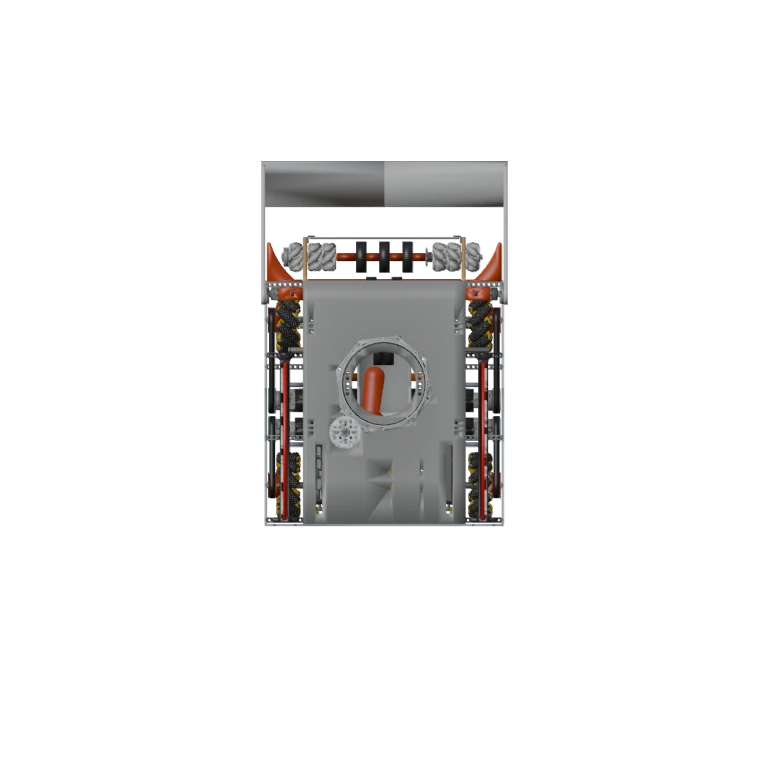
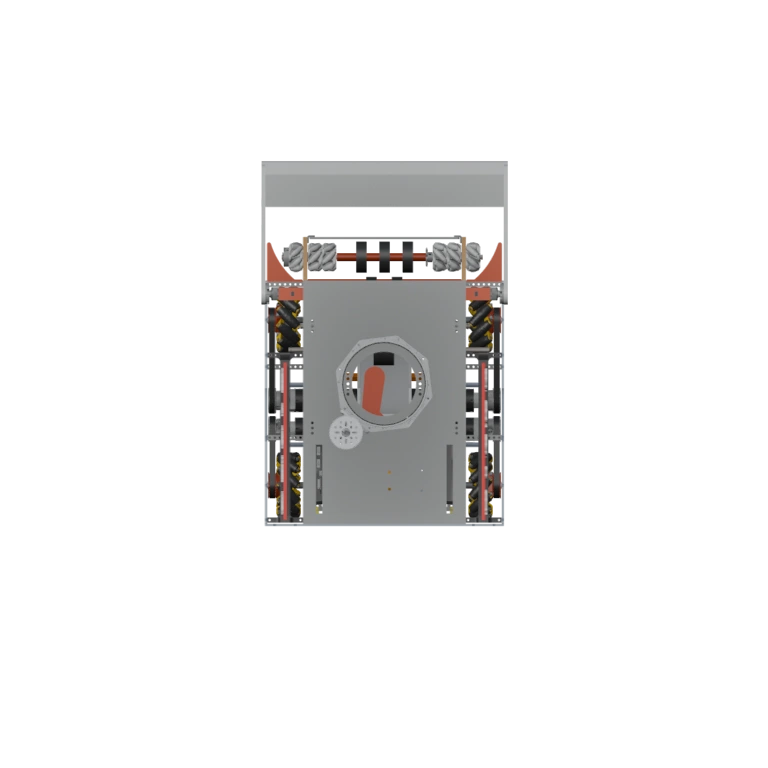
Render the Journey turret demo from STEP geometry

diff --git a/journey.html b/journey.html
@@ -125,9 +125,9 @@
           <div class="turret-demo-layout">
             <div class="turret-stage" role="group" aria-label="Overhead view with four aiming targets">
               <div class="turret-compass" aria-hidden="true"></div>
-              <img class="turret-layer" src="assets/journey/turret-chassis.webp" width="768" height="768" alt="Top view of Full Bot’s chassis, facing the front target" loading="lazy" draggable="false">
+              <img class="turret-layer" src="assets/journey/turret-chassis.webp?v=step-ap242" width="768" height="768" alt="Top view of Full Bot’s chassis, facing the front target" loading="lazy" draggable="false">
               <div class="turret-moving" aria-hidden="true">
-                <img class="turret-layer" src="assets/journey/turret-upper.webp" width="768" height="768" alt="" loading="lazy" draggable="false">
+                <img class="turret-layer" src="assets/journey/turret-upper.webp?v=step-ap242" width="768" height="768" alt="" loading="lazy" draggable="false">
                 <span class="turret-aim-line"></span>
               </div>
               <button type="button" class="turret-target" data-bearing="0" aria-label="Front target" aria-pressed="true" disabled>Front</button>
